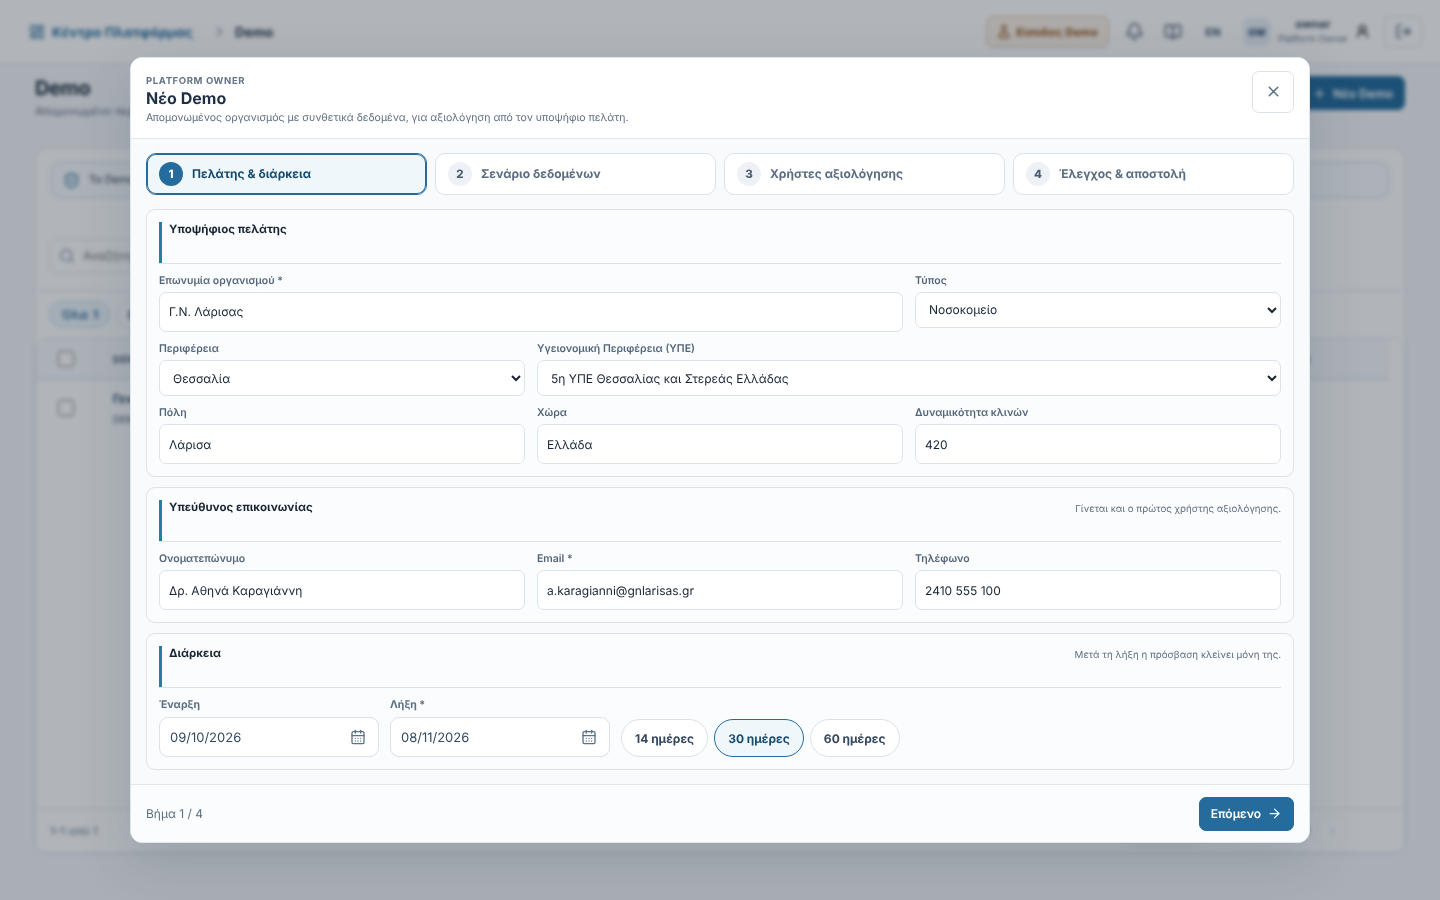
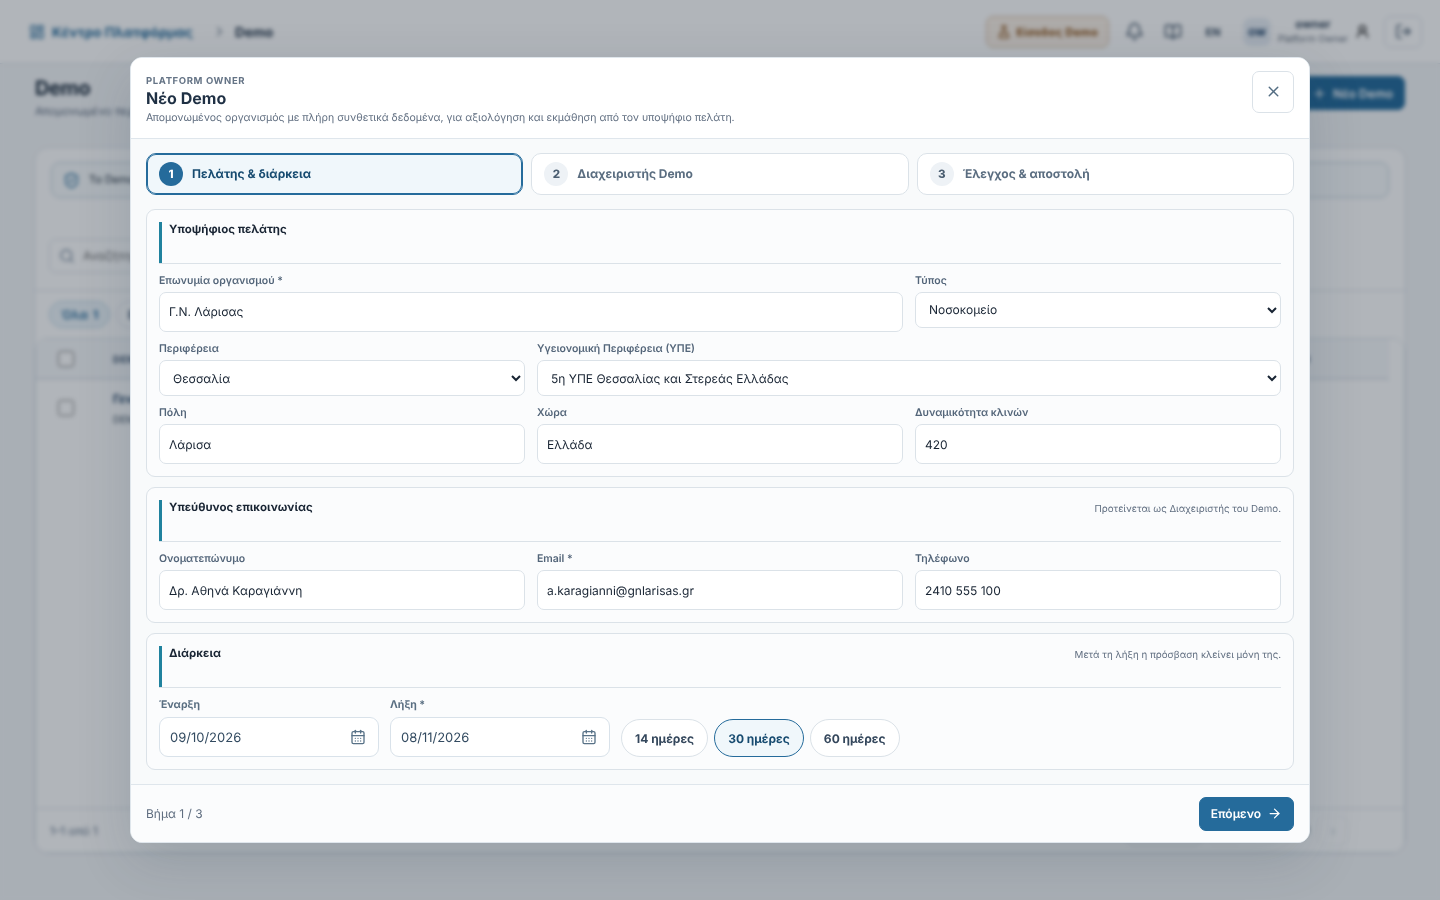
Demo wizard: always the full data pack, the Owner creates only the admin
- Three steps: customer and duration, Demo Hospital Admin (with what the
  Demo contains), review with email preview. No data-scenario choice: every
  Demo gets the full pack.
- The Demo's Hospital Admin creates the other users inside the Demo, up to
  max_demo_users.

Claude-Session: https://claude.ai/code/session_01G8UpzF7gLD3AJfyDe9u8dG

diff --git a/tests/demoCreationWizard.test.jsx b/tests/demoCreationWizard.test.jsx
@@ -4,7 +4,7 @@ import fs from 'node:fs'
 import { cleanup, fireEvent, render, screen } from '@testing-library/react'
 import '@testing-library/jest-dom/vitest'
 import { LanguageProvider } from '../src/core/i18n/LanguageContext'
-import { DemoCreateWizard, emptyDemoWizardDraft, evaluatorProblems, wizardEvaluators } from '../src/features/platform/DemoCreateWizard'
+import { DemoCreateWizard, emptyDemoWizardDraft, wizardAdmin } from '../src/features/platform/DemoCreateWizard'
 
 const read = path => fs.readFileSync(path, 'utf8')
 const migration = read('supabase/migrations/20261016120000_demo_creation_wizard.sql')
@@ -17,47 +17,28 @@ afterEach(() => cleanup())
 const draft = (patch = {}) => ({ ...emptyDemoWizardDraft(30), label: 'Γ.Ν. Λάρισας', contactName: 'Αθηνά Κ.', contactEmail: 'athina@larisa.example', ...patch })
 
 describe('New Demo wizard', () => {
-  it('makes the contact person the first evaluator, as Hospital Admin with an email invitation', () => {
-    expect(wizardEvaluators(draft())).toEqual([{ fullName: 'Αθηνά Κ.', email: 'athina@larisa.example', role: 'hospital_admin', departmentCode: null, access: 'invite' }])
+  it('creates one user, the Hospital Admin, from the contact person unless someone else is named', () => {
+    expect(wizardAdmin(draft())).toEqual({ fullName: 'Αθηνά Κ.', email: 'athina@larisa.example', role: 'hospital_admin', departmentCode: null, access: 'invite' })
+    expect(wizardAdmin(draft({ adminName: 'Νίκος Π.', adminEmail: 'Nikos@Larisa.example', access: 'password' }))).toEqual({ fullName: 'Νίκος Π.', email: 'nikos@larisa.example', role: 'hospital_admin', departmentCode: null, access: 'password' })
   })
-  it('checks the evaluators: limit, names, emails, duplicates and one Hospital Admin', () => {
-    const user = (email, role = 'hospital_admin') => ({ fullName: 'Χ', email, role, departmentCode: null, access: 'invite' })
-    expect(evaluatorProblems([user('a@x.gr')], 5)).toEqual([])
-    expect(evaluatorProblems([user('a@x.gr'), user('a@x.gr')], 5)).toContain('duplicate')
-    expect(evaluatorProblems([user('a@x.gr', 'pharmacy')], 5)).toContain('admin')
-    expect(evaluatorProblems([user('a@x.gr'), user('b@x.gr')], 1)).toContain('too_many')
-    expect(evaluatorProblems([user('not-an-email')], 5)).toContain('email')
-  })
-  it('keeps a department only for department roles', () => {
-    const rows = [{ key: 'a', fullName: 'Α', email: 'a@x.gr', role: 'department_manager', departmentCode: 'ΚΑΡΔ', access: 'password' }, { key: 'b', fullName: 'Β', email: 'b@x.gr', role: 'hospital_admin', departmentCode: 'ΚΑΡΔ', access: 'invite' }]
-    expect(wizardEvaluators(draft({ evaluators: rows }))).toEqual([
-      { fullName: 'Α', email: 'a@x.gr', role: 'department_manager', departmentCode: 'ΚΑΡΔ', access: 'password' },
-      { fullName: 'Β', email: 'b@x.gr', role: 'hospital_admin', departmentCode: null, access: 'invite' },
-    ])
-  })
-  it('moves through the four steps and sends the scenario and evaluators', () => {
+  it('moves through the three steps and sends the admin', () => {
     const onSubmit = vi.fn()
-    render(wrap(<DemoCreateWizard language="el" initialDraft={draft()} onSubmit={onSubmit} onClose={vi.fn()}/>))
+    render(wrap(<DemoCreateWizard language="el" maxUsers={5} initialDraft={draft()} onSubmit={onSubmit} onClose={vi.fn()}/>))
     fireEvent.click(screen.getByText('Επόμενο'))
-    fireEvent.click(screen.getByText('Μόνο επιτήρηση'))
-    fireEvent.click(screen.getByText('Επόμενο'))
-    expect(screen.getByText('1 / 5')).toBeInTheDocument()
+    expect(screen.getByText(/έως 5 συνολικά/)).toBeInTheDocument()
     fireEvent.click(screen.getByText('Επόμενο'))
     fireEvent.click(screen.getByText('Δημιουργία Demo'))
-    expect(onSubmit).toHaveBeenCalledWith(expect.objectContaining({ label: 'Γ.Ν. Λάρισας', seedProfile: 'surveillance', evaluators: [expect.objectContaining({ email: 'athina@larisa.example', role: 'hospital_admin' })] }))
+    expect(onSubmit).toHaveBeenCalledWith(expect.objectContaining({ label: 'Γ.Ν. Λάρισας', evaluators: [expect.objectContaining({ email: 'athina@larisa.example', role: 'hospital_admin' })] }))
   })
   it('shows a temporary password once after creation', () => {
-    render(wrap(<DemoCreateWizard language="el" result={{ organization: { name: 'Γ.Ν. Λάρισας' }, evaluators: [{ fullName: 'Μαρία', role: 'department_manager', username: 'MO19084', temporaryPassword: 'Lx7k-R4pW-m2qT' }] }} onClose={vi.fn()}/>))
+    render(wrap(<DemoCreateWizard language="el" result={{ organization: { name: 'Γ.Ν. Λάρισας' }, evaluators: [{ fullName: 'Μαρία', role: 'hospital_admin', username: 'MO19084', temporaryPassword: 'Lx7k-R4pW-m2qT' }] }} onClose={vi.fn()}/>))
     expect(screen.getByText('Lx7k-R4pW-m2qT')).toBeInTheDocument()
     expect(screen.getByText('MO19084')).toBeInTheDocument()
   })
 })
 
-describe('Demo data scenarios and evaluator limit', () => {
-  it('fills a Demo with its scenario on creation and on reset', () => {
-    expect(migration).toContain("check (seed_profile in ('full', 'surveillance', 'empty'))")
-    expect(migration).toContain('return private.demo_seed_data(v_org, p_actor);')
-    expect(migration).toMatch(/return private\.demo_seed_profile\(p_organization_id, auth\.uid\(\),\s+coalesce\(\(select e\.seed_profile/)
+describe('Demo data and user limit', () => {
+  it('has a platform limit on the users of a Demo', () => {
     expect(migration).toContain('max_demo_users integer not null default 5')
   })
   it('writes the data before inviting anyone and sends the Limoxis Demo email', () => {

diff --git a/src/features/platform/demoWizard.css b/src/features/platform/demoWizard.css
@@ -1,6 +1,6 @@
-/* New Demo wizard (4 steps) and its result dialog. */
+/* New Demo wizard (3 steps) and its result dialog. */
 .modal-backdrop>.observer-dialog.demo-wizard{width:min(1180px,calc(100vw - 32px))!important;max-width:none!important}
-.demo-wizard-steps{display:grid;grid-template-columns:repeat(4,minmax(0,1fr));gap:8px;margin:0 0 14px;padding:0;list-style:none}
+.demo-wizard-steps{display:grid;grid-template-columns:repeat(3,minmax(0,1fr));gap:8px;margin:0 0 14px;padding:0;list-style:none}
 .demo-wizard-steps button{display:flex;align-items:center;gap:9px;width:100%;min-height:42px;padding:8px 12px;border:1px solid var(--lo-color-border,#dfe6ec);border-radius:10px;background:var(--lo-color-surface,#fff);color:#5a6d80;font:inherit;font-size:12px;font-weight:700;text-align:left;cursor:pointer}
 .demo-wizard-steps button:disabled{cursor:not-allowed;opacity:.65}
 .demo-wizard-step-number{display:inline-flex;align-items:center;justify-content:center;flex:0 0 24px;width:24px;height:24px;border-radius:999px;background:#eef2f6;color:#4b5e71;font-size:11.5px;font-weight:800}
@@ -16,27 +16,13 @@
 .demo-wizard-chips button{height:38px;padding:0 13px;border:1px solid var(--lo-color-border,#dfe6ec);border-radius:999px;background:#fff;color:#34475c;font:inherit;font-size:12px;font-weight:700;cursor:pointer}
 .demo-wizard-chips button.is-active{border-color:var(--lo-color-primary,#256b9b);background:#f0f7fb;color:#174b70}
 
-.demo-wizard-scenarios{display:grid;grid-template-columns:repeat(3,minmax(0,1fr));gap:12px}
-.demo-wizard-scenario{display:flex;flex-direction:column;gap:8px;padding:16px;border:1px solid var(--lo-color-border,#dfe6ec);border-radius:12px;background:#fff;color:#34475c;font:inherit;text-align:left;cursor:pointer}
-.demo-wizard-scenario.is-selected{border-color:var(--lo-color-primary,#256b9b);background:#f6fafd;box-shadow:0 0 0 1px var(--lo-color-primary,#256b9b) inset}
-.demo-wizard-scenario-head{display:flex;align-items:center;gap:8px}
-.demo-wizard-scenario-head strong{font-size:14px;color:#1d3247}
-.demo-wizard-scenario-head em{padding:2px 8px;border-radius:999px;background:#e3f3ea;color:#2f7b57;font-size:10.5px;font-style:normal;font-weight:800}
-.demo-wizard-radio{margin-left:auto;flex:0 0 18px;width:18px;height:18px;border:2px solid #b7c4d0;border-radius:999px;background:#fff}
-.demo-wizard-scenario.is-selected .demo-wizard-radio{border-color:var(--lo-color-primary,#256b9b);box-shadow:inset 0 0 0 3px #fff;background:var(--lo-color-primary,#256b9b)}
-.demo-wizard-scenario-text{font-size:12.5px;line-height:1.5;color:#526376}
-.demo-wizard-scenario ul{display:flex;flex-direction:column;gap:5px;margin:4px 0 0;padding:0;list-style:none}
-.demo-wizard-scenario li{display:flex;align-items:center;gap:6px;font-size:12px;color:#334b61}
-.demo-wizard-scenario li svg{flex:0 0 auto;color:#2f7b57}
+.demo-wizard-admin{display:grid;grid-template-columns:minmax(0,1.5fr) minmax(0,1fr);gap:12px;align-items:start}
+.demo-wizard-admin .platform-form-grid{grid-template-columns:repeat(2,minmax(0,1fr))}
+.demo-wizard-contents ul{display:flex;flex-direction:column;gap:8px;margin:0;padding:0;list-style:none}
+.demo-wizard-contents li{display:flex;align-items:flex-start;gap:7px;font-size:12.5px;line-height:1.45;color:#334b61}
+.demo-wizard-contents li svg{flex:0 0 auto;margin-top:2px;color:#2f7b57}
 
 .demo-wizard-count{padding:3px 10px;border-radius:999px;background:#eef2f6;color:#34475c;font-size:12px;font-weight:800;white-space:nowrap}
-.demo-wizard-evaluator-head,.demo-wizard-evaluator{display:grid;grid-template-columns:minmax(0,1.1fr) minmax(0,1.3fr) minmax(0,1.45fr) minmax(0,1.15fr) minmax(0,1fr) 40px;gap:8px;align-items:center}
-.demo-wizard-evaluator-head{padding:0 2px 6px;font-size:11px;font-weight:700;color:#5a6d80}
-.demo-wizard-evaluator{margin-bottom:8px}
-.demo-wizard-evaluator input,.demo-wizard-evaluator select{width:100%;min-width:0;height:38px;padding:0 10px;border:1px solid var(--lo-color-border,#d7dee7);border-radius:9px;background:#fff;color:#33495f;font:inherit;font-size:12.5px}
-.demo-wizard-evaluator select:disabled{background:#f4f6f8;color:#7b8a99}
-.demo-wizard-remove{width:40px;height:38px;padding:0;justify-content:center}
-.demo-wizard-evaluator-actions{display:flex;align-items:center;gap:12px;margin-top:4px}
 .demo-wizard-note{display:flex;align-items:flex-start;gap:8px;margin:12px 0 0;padding:10px 12px;border-radius:9px;background:#f2f7fa;color:#4f6577;font-size:12px;line-height:1.5}
 .demo-wizard-note svg{flex:0 0 auto;margin-top:2px;color:#2c668c}
 
@@ -65,10 +51,8 @@
 .demo-email-preview-button{display:inline-block;padding:9px 16px;border-radius:8px;background:#0f6f7c;color:#fff;font-weight:700}
 
 @media(max-width:900px){
-  .demo-wizard-steps,.demo-wizard-scenarios,.demo-wizard-review{grid-template-columns:minmax(0,1fr)}
+  .demo-wizard-steps,.demo-wizard-admin,.demo-wizard-review{grid-template-columns:minmax(0,1fr)}
   .demo-wizard-duration{grid-template-columns:minmax(0,1fr)}
-  .demo-wizard-evaluator-head{display:none}
-  .demo-wizard-evaluator{grid-template-columns:minmax(0,1fr) minmax(0,1fr);padding-bottom:8px;border-bottom:1px solid #edf1f4}
 }
 
 /* Demo record · evaluators */

diff --git a/supabase/functions/create-demo-access/index.ts b/supabase/functions/create-demo-access/index.ts
@@ -3,9 +3,10 @@ import nodemailer from 'npm:nodemailer@6.10.1'
 import { demoAccessEmail } from '../_shared/emailTemplates.ts'
 
 // New Demo (wizard) and new evaluators of an existing Demo. Platform Owner only.
-//   * create: organization, entitlement with its data scenario, the data
-//     (platform_reset_demo_organization), then the evaluators. Invitations
-//     leave only after the data is in, so nobody logs into an empty hospital.
+//   * create: organization, entitlement, the full data pack
+//     (platform_reset_demo_organization), then its Hospital Admin, who adds
+//     the other users inside the Demo. Invitations leave only after the data
+//     is in, so nobody logs into an empty hospital.
 //   * add_evaluator: one more evaluator, within max_demo_users.
 // Each evaluator gets a real role (department roles get a Demo department) and
 // either an email invitation (the Limoxis "Demo access" email when SMTP is
@@ -21,7 +22,6 @@ const addDays=(isoDate:string,days:number)=>{const date=new Date(`${isoDate}T00:
 const EMAIL=/^[^\s@]+@[^\s@]+\.[^\s@]+$/
 const ROLES=['hospital_admin','infection_control_lead','infection_control_member','department_manager','link_nurse','department_user','laboratory','pharmacy','quality_manager','occupational_physician','hr_office','committee_secretariat','doctor_reviewer']
 const DEPARTMENT_ROLES=new Set(['department_manager','link_nurse','department_user','laboratory'])
-const PROFILES=['full','surveillance','empty']
 const fmtDay=(value:string)=>{const m=String(value||'').match(/^(\d{4})-(\d{2})-(\d{2})/);return m?`${m[3]}/${m[2]}/${m[1]}`:value}
 
 type Evaluator={fullName:string,email:string,role:string,departmentCode:string|null,access:'invite'|'password'}
@@ -176,7 +176,6 @@ Deno.serve(async(req)=>{
   const contactEmail=String(body.contactEmail||'').trim().toLowerCase()
   const validFrom=String(body.validFrom||'')
   let validUntil=String(body.validUntil||'')
-  const seedProfile=PROFILES.includes(String(body.seedProfile))?String(body.seedProfile):'full'
   const organizationType=String(body.type||'hospital')
   const region=String(body.region||'').trim()||null
   const healthRegion=String(body.healthRegion||'').trim()||null
@@ -233,7 +232,6 @@ Deno.serve(async(req)=>{
     valid_until:validUntil,
     status:'active',
     created_by:currentUser.user.id,
-    seed_profile:seedProfile,
   }).select().single()
   if(entitlementError||!entitlement){
     // Nothing references the new organization yet, so it can go directly.
@@ -255,7 +253,7 @@ Deno.serve(async(req)=>{
   await admin.from('system_audit_log').insert({
     organization_id:organization.id,actor_user_id:currentUser.user.id,actor_role:'platform_owner',event_type:'platform.demo.created',
     entity_type:'platform_demo_entitlement',entity_id:entitlement.id,
-    metadata:{name:label,code:organizationCode,seed_profile:seedProfile,valid_until:validUntil,evaluators:results.map(r=>({role:r.role,access:r.access,ok:!r.error}))},
+    metadata:{name:label,code:organizationCode,valid_until:validUntil,evaluators:results.map(r=>({role:r.role,access:r.access,ok:!r.error}))},
   })
 
   return reply({

diff --git a/docs/DEMO_LIFECYCLE_AND_ORGANIZATION_DELETION_DESIGN.md b/docs/DEMO_LIFECYCLE_AND_ORGANIZATION_DELETION_DESIGN.md
@@ -390,14 +390,15 @@ Screenshots: [`docs/design/demo-lifecycle/phase4/`](./design/demo-lifecycle/phas
 
 ## 22. Υλοποίηση — Οδηγός νέου Demo και χρήστες αξιολόγησης (§5, §7)
 
-- **Οδηγός 4 βημάτων** (`DemoCreateWizard`): πελάτης & διάρκεια (14/30/60 ημέρες ή ημερομηνίες), σενάριο δεδομένων, χρήστες αξιολόγησης, έλεγχος με προεπισκόπηση του email.
-- **Σενάρια δεδομένων** (`platform_demo_entitlements.seed_profile`, `private.demo_seed_profile`): *Πλήρες νοσοκομείο* (όλο το πακέτο), *Μόνο επιτήρηση* (τμήματα, ασθενείς, επιτήρηση, εργαστήριο, αντιβιογράμματα, υγιεινή χεριών, προσωπικό), *Κενό* (μόνο τα 8 τμήματα). Η «Επαναφορά δεδομένων» ξαναγεμίζει το Demo με το σενάριο που δημιουργήθηκε.
-- **Χρήστες αξιολόγησης:** έως `max_demo_users` (ρύθμιση πλατφόρμας, προεπιλογή 5), ο καθένας με πραγματικό ρόλο. Οι ρόλοι τμήματος παίρνουν τμήμα του Demo. Τουλάχιστον ένας είναι Διαχειριστής Νοσοκομείου.
+Αποφάσεις του Owner: κάθε Demo γεμίζει **πάντα** με το πλήρες πακέτο δεδομένων (χωρίς επιλογή σεναρίου), και ο Owner δημιουργεί μόνο τον Διαχειριστή του Demo· τους υπόλοιπους χρήστες τους δημιουργεί ο Διαχειριστής μέσα στο Demo, μέχρι το όριο.
+
+- **Οδηγός 3 βημάτων** (`DemoCreateWizard`): πελάτης & διάρκεια (14/30/60 ημέρες ή ημερομηνίες), Διαχειριστής Demo (με τι θα βρει στο Demo), έλεγχος με προεπισκόπηση του email.
+- **Πρόσβαση του Διαχειριστή:**
   - **Πρόσκληση email:** το επώνυμο email «Demo πρόσβαση» της Limoxis (όταν υπάρχει SMTP), αλλιώς η πρόσκληση του Supabase. Στέλνεται αφού γραφτούν τα δεδομένα.
   - **Προσωρινός κωδικός:** εμφανίζεται μία φορά μετά τη δημιουργία, για παρουσίαση από κοντά. Δεν αποθηκεύεται.
   - Όποιος είναι ήδη χρήστης άλλου οργανισμού προστίθεται μόνο ως μέλος, χωρίς δεύτερο λογαριασμό.
+- **Όριο χρηστών** `max_demo_users` (ρύθμιση πλατφόρμας, προεπιλογή 5): ισχύει όταν ο Διαχειριστής του Demo δημιουργεί χρήστες (`create-organization-user`, `DEMO_USER_LIMIT`) και όταν ο Owner προσθέτει από την καρτέλα.
 - **Καρτέλα Demo → Χρήστες αξιολόγησης:** επαναποστολή πρόσκλησης, email επαναφοράς κωδικού, αφαίρεση (όχι του τελευταίου Διαχειριστή), προσθήκη χρήστη.
-- **Ο Διαχειριστής του Demo** δημιουργεί ο ίδιος τους υπόλοιπους χρήστες από τη Διαχείριση, μέχρι το όριο (`create-organization-user`, `DEMO_USER_LIMIT`).
-- Καταγραφή `platform.demo.created` με σενάριο και ρόλους.
+- Καταγραφή `platform.demo.created`.
 
 Οθόνες: `docs/design/demo-lifecycle/wizard/`.
